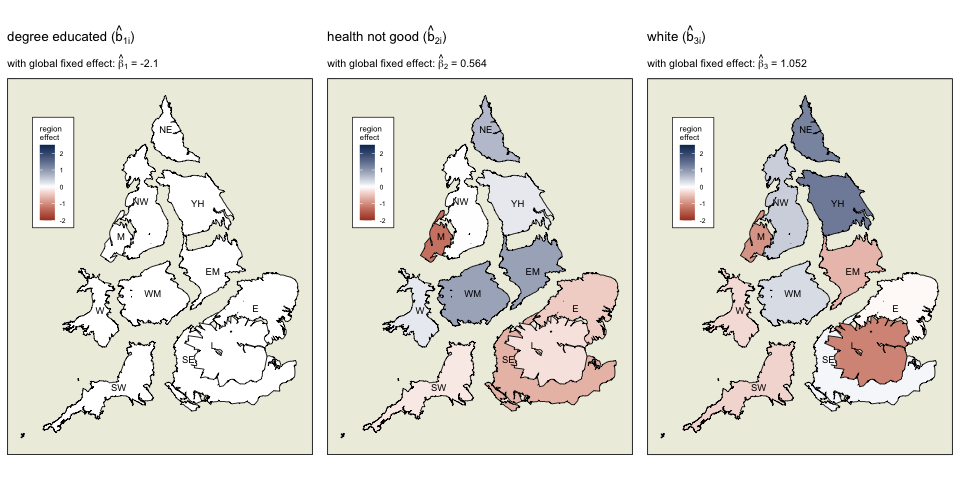
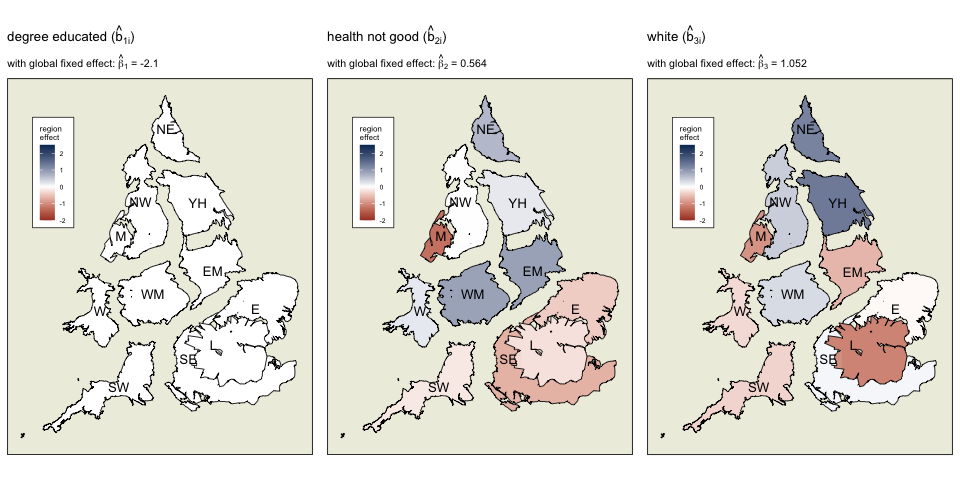
change text size

diff --git a/README.md b/README.md
@@ -1,4 +1,3 @@
-
 <!-- README.md is generated from README.Rmd. Please edit that file -->
 
 # A multilevel spatial model to investigate voting behaviour in the 2019 UK general election
@@ -54,7 +53,7 @@ maintaining constituency contiguities.
 Right: Guide map of the regions of England and Wales under a similar
 projection.
 
-<img src="README_files/figure-gfm/unnamed-chunk-8-1.png" style="display: block; margin: auto;" />
+<img src="README_files/figure-markdown_github/unnamed-chunk-8-1.png" style="display: block; margin: auto;" />
 
 ### Swingometers
 
@@ -63,7 +62,7 @@ relative to circle such that the maximum swing is 90 degrees from the
 vertical. In this regional map, the North East swing of 8.36% is the
 maximum.
 
-![](README_files/figure-gfm/unnamed-chunk-11-1.png)<!-- -->
+![](README_files/figure-markdown_github/unnamed-chunk-11-1.png)
 
 ### Contiguities
 
@@ -74,12 +73,12 @@ First order queen contiguity structure of constituencies in England and
 Wales, shown as edges radiating from nodes at the centroid of
 constituencies.
 
-<img src="README_files/figure-gfm/unnamed-chunk-13-1.png" style="display: block; margin: auto;" />
+<img src="README_files/figure-markdown_github/unnamed-chunk-13-1.png" style="display: block; margin: auto;" />
 
 ### Explanatory variables
 
 | Explanatory variable | Calculation from census                                                         | Justification/theory                                |
-|----------------------|---------------------------------------------------------------------------------|-----------------------------------------------------|
+|-----------|-------------------------------------|-------------------------|
 | degree educated      | percentage of population with level 4 qualification or higher                   | post-industrial / knowledge-economy / peripherality |
 | health not good      | percentage of the population self-reporting ‘poor’, ‘bad’, or ‘very bad’ health | life outcomes / young people                        |
 | white                | percentage of population of white ethnicity                                     | ethnic / cultural diversity / values                |
@@ -90,7 +89,7 @@ Values of independent variables mapped across England and Wales. Figures
 projected as Dougenik cartograms such that equal populations occupy
 equal area while maintaining constituency contiguities.
 
-<img src="README_files/figure-gfm/unnamed-chunk-17-1.png" style="display: block; margin: auto;" />
+<img src="README_files/figure-markdown_github/unnamed-chunk-17-1.png" style="display: block; margin: auto;" />
 
 ## Modelling
 
@@ -103,7 +102,7 @@ East show a block of red alongside a block of blue, while a blue pattern
 of underprediction spreads across the boundary between the East Midlands
 and Yorkshire and the Humber.
 
-<img src="README_files/figure-gfm/unnamed-chunk-20-1.png" style="display: block; margin: auto;" />
+<img src="README_files/figure-markdown_github/unnamed-chunk-20-1.png" style="display: block; margin: auto;" />
 
 ### Model variations
 
@@ -142,7 +141,7 @@ particular dataset. Such a process can be used to find the most suitable
 structure for any potential dataset.
 
 | Model | Autoregressive spatial process(es)            | AIC  | RMSE | adjR2 | Loglik |
-|-------|-----------------------------------------------|------|------|-------|--------|
+|-------|---------------------------------------|------|------|-------|--------|
 | 1     | constituency component                        | 2336 | 1.43 | 0.76  | -1015  |
 | 2     | varying coefficients                          | 2373 | 1.62 | 0.73  | -1086  |
 | 3     | constituency component + varying coefficients | 2381 | 1.64 | 0.73  | -1094  |
@@ -153,35 +152,39 @@ The structure of the model is outlined below:
 
 $$
 \begin{aligned}
-y_{ijk} &=  \beta_0 + \beta_1 degree_{ijk} + \beta_2 health_{ijk} + \beta_3white_{ijk}\\
-&+ b_{0i} + b_{1i} degree_{ijk} + b_{2i} health_{ijk} + b_{3i}white_{ijk}\\
-&+ b_{0ij} + b_{1ij} degree_{ijk} + b_{2ij} health_{ijk} + b_{3ij}white_{ijk}\\
-&+ \gamma_{l}|\gamma_{m}, l\neq{m}\\
-&+ \epsilon_{ijk}
+y\_{ijk} &=  \beta_0 + \beta_1 degree\_{ijk} + \beta_2 health\_{ijk} + \beta_3white\_{ijk}\\
+&+ b\_{0i} + b\_{1i} degree\_{ijk} + b\_{2i} health\_{ijk} + b\_{3i}white\_{ijk}\\
+&+ b\_{0ij} + b\_{1ij} degree\_{ijk} + b\_{2ij} health\_{ijk} + b\_{3ij}white\_{ijk}\\
+&+ \gamma\_{l}\|\gamma\_{m}, l\neq{m}\\
+&+ \epsilon\_{ijk}
 \end{aligned}
 $$
 
-where $y_{ijk}$ is the swing in constituency $k$ in county $j$ in region
-$i$ for
+where *y*<sub>*i**j**k*</sub> is the swing in constituency *k* in county
+*j* in region *i* for
 
-- $i = 1, ... , 11$ regions,
+-   *i* = 1, ..., 11 regions,
 
-- $j = 1,..., J_{i}$ counties within region $i$,
+-   *j* = 1, ..., *J*<sub>*i*</sub> counties within region *i*,
 
-- $k = 1,..., K_{ij}$ constituencies within county $j$ within region
-  $i$, and
+-   *k* = 1, ..., *K*<sub>*i**j*</sub> constituencies within county *j*
+    within region *i*, and
 
-- $l = 1,..., 571$ individual constituencies.
+-   *l* = 1, ..., 571 individual constituencies.
 
-- $\beta_0$, $\beta_1$, $\beta_2$, $\beta_3$ are fixed effects.
+-   *β*<sub>0</sub>, *β*<sub>1</sub>, *β*<sub>2</sub>, *β*<sub>3</sub>
+    are fixed effects.
 
-- $b_{0i}$, $b_{1i}$, $b_{2i}$, $b_{3i}$ are the random effects
-  (intercept and three slopes) associated with region $i$,
+-   *b*<sub>0*i*</sub>, *b*<sub>1*i*</sub>, *b*<sub>2*i*</sub>,
+    *b*<sub>3*i*</sub> are the random effects (intercept and three
+    slopes) associated with region *i*,
 
-- $b_{0ij}$, $b_{1ij}$, $b_{2ij}$, $b_{3ij}$ are the random effects
-  (intercept and three slopes) associated with county $j$ in region $i$.
+-   *b*<sub>0*i**j*</sub>, *b*<sub>1*i**j*</sub>, *b*<sub>2*i**j*</sub>,
+    *b*<sub>3*i**j*</sub> are the random effects (intercept and three
+    slopes) associated with county *j* in region *i*.
 
-- $\epsilon_{ijk}$ are independent normally distributed error terms.
+-   *ϵ*<sub>*i**j**k*</sub> are independent normally distributed error
+    terms.
 
 Rather than estimate each of the random effect coefficients directly,
 the variance of each random effect is instead estimated. For the region
@@ -190,25 +193,26 @@ the others within its level, and to be normally distributed with mean of
 zero. This independence is a key restriction in multi-level modelling
 with `mgcv` as opposed to other packages.
 
-The $\gamma_{l}$’s are constituency level random effects which model the
-spatial interactions at the lowest level of the model, based on an ICAR
-distribution. Let there be $m = 1,..., M$ potential neighbouring
-constituencies, where $M=L=571$. Each $\gamma_{l}$ is conditional on the
-sum of the weighted values of its neighbouring $\gamma_{m}$’s
-($\text{w}_{lm}\gamma_m$) and has unknown variance. As a constituency is
-not a neighbour to itself, the full conditional distribution can be
-written as follows:
-$$\gamma_l | \gamma_m,l\neq{m} \sim\text{N}\bigg(\frac{\sum_{l\neq{m}}{\gamma_l}}{d_l},\frac{\sigma_{l}^2}{d_l}\bigg)$$
-where the term $d_l$ represents the number of neighbours. Thus the mean
-of each $\gamma_l$ is equal to the average of its neighbours, while its
-variance decreases as the number of neighbours increases.
+The *γ*<sub>*l*</sub>’s are constituency level random effects which
+model the spatial interactions at the lowest level of the model, based
+on an ICAR distribution. Let there be *m* = 1, ..., *M* potential
+neighbouring constituencies, where *M* = *L* = 571. Each
+*γ*<sub>*l*</sub> is conditional on the sum of the weighted values of
+its neighbouring *γ*<sub>*m*</sub>’s
+(w<sub>*l**m*</sub>*γ*<sub>*m*</sub>) and has unknown variance. As a
+constituency is not a neighbour to itself, the full conditional
+distribution can be written as follows:
+$$\gamma_l \| \gamma_m,l\neq{m} \sim\text{N}\bigg(\frac{\sum\_{l\neq{m}}{\gamma_l}}{d_l},\frac{\sigma\_{l}^2}{d_l}\bigg)$$
+where the term *d*<sub>*l*</sub> represents the number of neighbours.
+Thus the mean of each *γ*<sub>*l*</sub> is equal to the average of its
+neighbours, while its variance decreases as the number of neighbours
+increases.
 
-The joint specification of the ICAR random vector $\gamma$ when centred
-at $0$ with common variance $1$ rewrites to the pairwise difference
-formulation:
-$$\gamma \propto\text{exp}\bigg(-\frac{1}{2}\Sigma_{l\neq{m}}(\gamma_l-\gamma_m)^2\bigg)$$
+The joint specification of the ICAR random vector *γ* when centred at 0
+with common variance 1 rewrites to the pairwise difference formulation:
+$$\gamma \propto\text{exp}\bigg(-\frac{1}{2}\Sigma\_{l\neq{m}}(\gamma_l-\gamma_m)^2\bigg)$$
 To overcome the problem of unidentifiability, the constraint
-$\Sigma_L\gamma_l=0$ is added to centre the model.
+*Σ*<sub>*L*</sub>*γ*<sub>*l*</sub> = 0 is added to centre the model.
 
 ## Results
 
@@ -230,7 +234,7 @@ The aim of this modelling structure was to enable us
 
 ### Fixed effects
 
-<img src="README_files/figure-gfm/unnamed-chunk-25-1.png" width="100%" />
+<img src="README_files/figure-markdown_github/unnamed-chunk-25-1.png" width="100%" />
 
 ### Region randoms
 
@@ -241,7 +245,7 @@ occur is shown above each map. Unlike ‘health not good’ and ‘white’,
 ‘degree educated’ does not show significant divergence at this level
 from its global coefficient.
 
-<img src="README_files/figure-gfm/unnamed-chunk-28-1.png" style="display: block; margin: auto;" />
+<img src="README_files/figure-markdown_github/unnamed-chunk-28-1.png" style="display: block; margin: auto;" />
 
 ### County randoms
 
@@ -249,13 +253,13 @@ Random effects of ‘degree educated’ variable at the county level of
 England and Wales. Particularly strong within-county variation can be
 observed in the East.
 
-![](README_files/figure-gfm/unnamed-chunk-31-1.png)<!-- -->
+![](README_files/figure-markdown_github/unnamed-chunk-31-1.png)
 
 Random effects of ‘white’ variable at the county level of England and
 Wales. Particularly strong within-county variation can be observed in
 the East Midlands.
 
-![](README_files/figure-gfm/unnamed-chunk-32-1.png)<!-- -->
+![](README_files/figure-markdown_github/unnamed-chunk-32-1.png)
 
 ### Table of variances
 
@@ -270,7 +274,7 @@ albeit to different extents. ‘Health not good’ and ‘white’ show not only
 different magnitudes but also different directions of association with
 swing in different regions and counties across the study area.
 
-<img src="README_files/figure-gfm/unnamed-chunk-34-1.png" width="100%" />
+<img src="README_files/figure-markdown_github/unnamed-chunk-34-1.png" width="100%" />
 
 ### Constituency level
 
@@ -282,7 +286,7 @@ where the tendency is to swing to Labour, controlling for the covariates
 and hierarchical effects. Areas of clear cross-regional spillover of
 effects are highlighted with red circles.
 
-<img src="README_files/figure-gfm/unnamed-chunk-35-1.png" style="display: block; margin: auto;" />
+<img src="README_files/figure-markdown_github/unnamed-chunk-35-1.png" style="display: block; margin: auto;" />
 
 ### Spatial diagnostics of model
 
@@ -294,4 +298,4 @@ lagged neighbours which shows neither a positive nor negative
 association between a constituency’s residuals and those of its
 neighbours.
 
-<img src="README_files/figure-gfm/unnamed-chunk-36-1.png" style="display: block; margin: auto;" />
+<img src="README_files/figure-markdown_github/unnamed-chunk-36-1.png" style="display: block; margin: auto;" />
